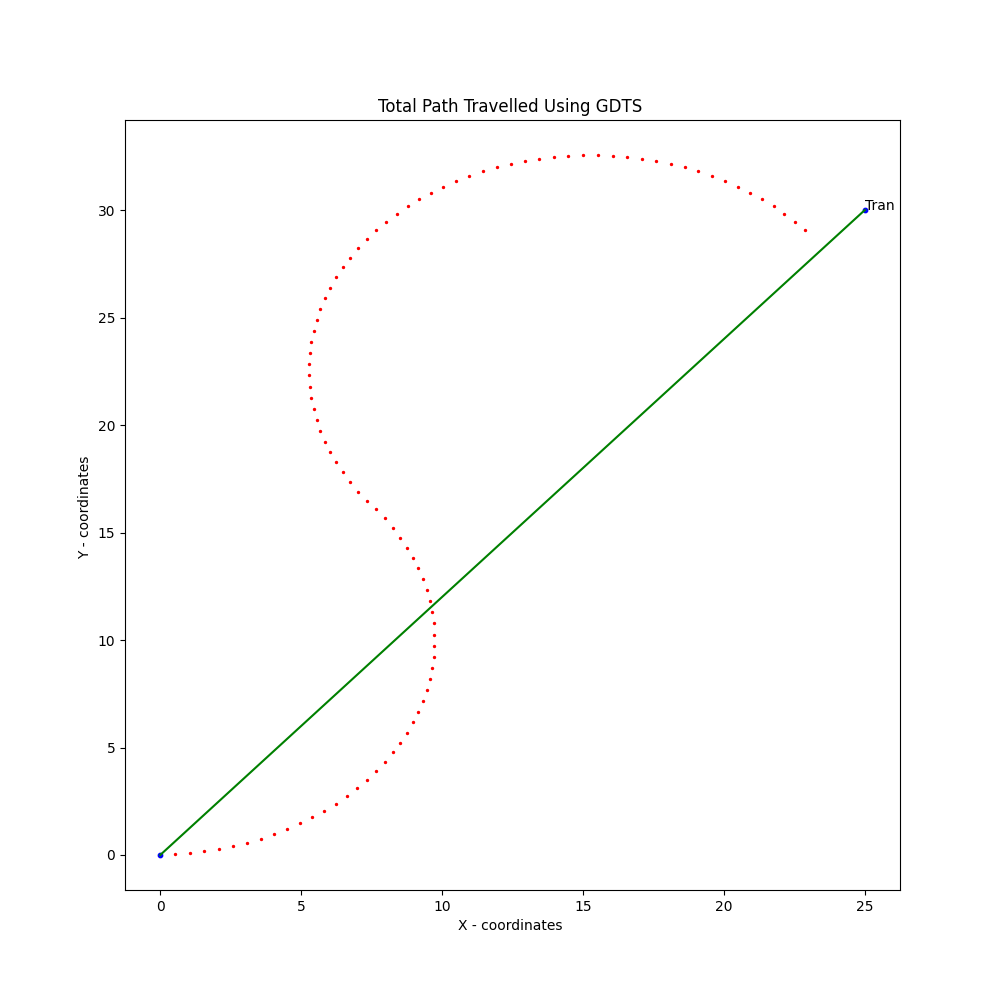
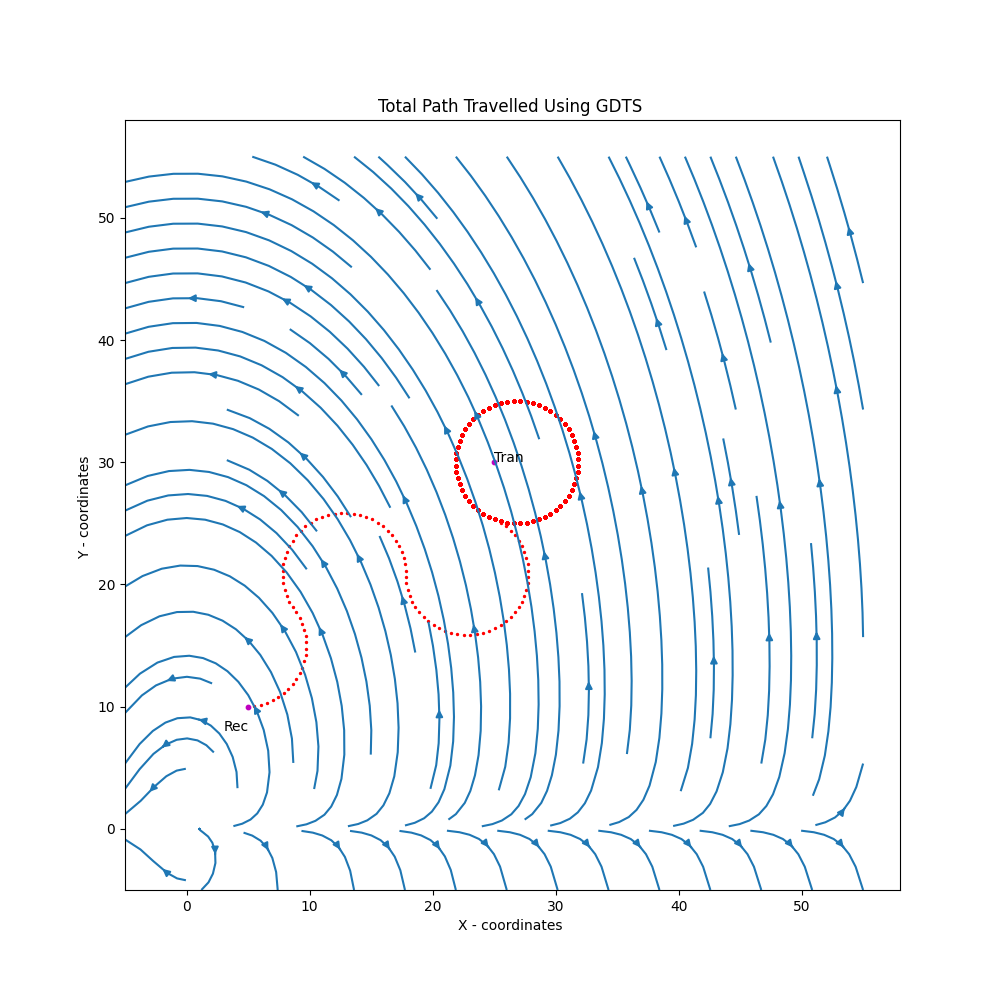
Magnetic Field

diff --git a/modified.py b/modified.py
@@ -2,6 +2,7 @@ import math
 import numpy as np
 import matplotlib.pyplot as plt
 from MagneticField import MagneticField
+from TransmitterFrame import TransmitterFrameField
 
 class GDTS:
 
@@ -10,7 +11,7 @@ class GDTS:
         self.turn_rate = turn_rate
         self.airspeed = airspeed
         self.strength = 10  # Strength at the Transmitters Location
-        self.trans_loc = [25, 30 ,2]  # Transmitter Location
+        self.trans_loc = np.array([25, 30 ,2])  # Transmitter Location
         self.tran_ori = [45 , 45 , 45]
         self.total_path_coordinates_x = []
         self.total_path_coordinates_y = []
@@ -152,19 +153,31 @@ class GDTS:
         self.plotting_path()
 
     def plotting_path(self):
-        x = np.linspace(self.trans_loc[0] , self.initial_rec_loc[0] , 1000)
-        y = np.linspace(self.trans_loc[1] , self.initial_rec_loc[1] , 1000)
+
+        a = np.linspace(self.trans_loc[0]-30 , self.trans_loc[0]+30 , 100)
+        b = np.linspace(self.trans_loc[0]-30 , self.trans_loc[0]+30 , 100)
+        c = np.full(shape=(100,) , fill_value=self.trans_loc[-1])
+
+        A , B , C = np.meshgrid(a,b,c)
+
+        obj = TransmitterFrameField(pr=[A,B,C],pt=self.trans_loc)
+        Bx , By , _ = obj.B 
+
         plt.figure(figsize=(10, 10))
+
+        plt.streamplot(A[:,:,0], B[:,:,0], Bx[:,:,0] , By[:,:,0])
         plt.scatter(self.total_path_coordinates_x, self.total_path_coordinates_y, c='r', s=2)
-        plt.scatter([self.trans_loc[0]], [self.trans_loc[1]], c='b', s=10)
-        plt.scatter([self.initial_rec_loc[0]], [self.initial_rec_loc[1]], c='b', s=10)
-        plt.plot(x , y , 'g')
+        plt.scatter([self.trans_loc[0]], [self.trans_loc[1]], c='m', s=10)
+        plt.scatter([self.initial_rec_loc[0]], [self.initial_rec_loc[1]], c='m', s=10)
+
         plt.annotate("Rec" , xy = (self.initial_rec_loc[0]-2 , self.initial_rec_loc[1]-2))
         plt.annotate("Tran" , xy = (self.trans_loc[0] , self.trans_loc[1]))
+
         plt.xlabel('X - coordinates ')
         plt.ylabel('Y - coordinates ')
+
         plt.title('Total Path Travelled Using GDTS ')
-        plt.savefig("GDTS_test.png")
+        plt.savefig("GDTS_test1.png")
         plt.show()
 
 if __name__ == '__main__':

diff --git a/TransmitterFrame.py b/TransmitterFrame.py
@@ -1,0 +1,20 @@
+import numpy as np 
+
+import matplotlib.pyplot as plt
+
+
+class TransmitterFrameField:
+
+    def __init__(self, pr , pt):
+        self.m = [1,0,0]
+        
+        R = np.subtract(np.transpose(pr), pt).T
+        norm_R = np.sqrt(np.einsum("i...,i...", R, R))
+
+        # Calculate A (replace x, y, z with appropriate values)
+        x, y, z = pr
+        A = np.array([2*x*2 - y**2 - z*2, 3*x*y, 3*x*z])
+
+        # Compute magnetic field B
+        norm_m = np.sqrt(np.einsum("i...,i...", self.m, self.m))
+        self.B = np.array((norm_m / ((4 * np.pi) * norm_R**5)) * A)
